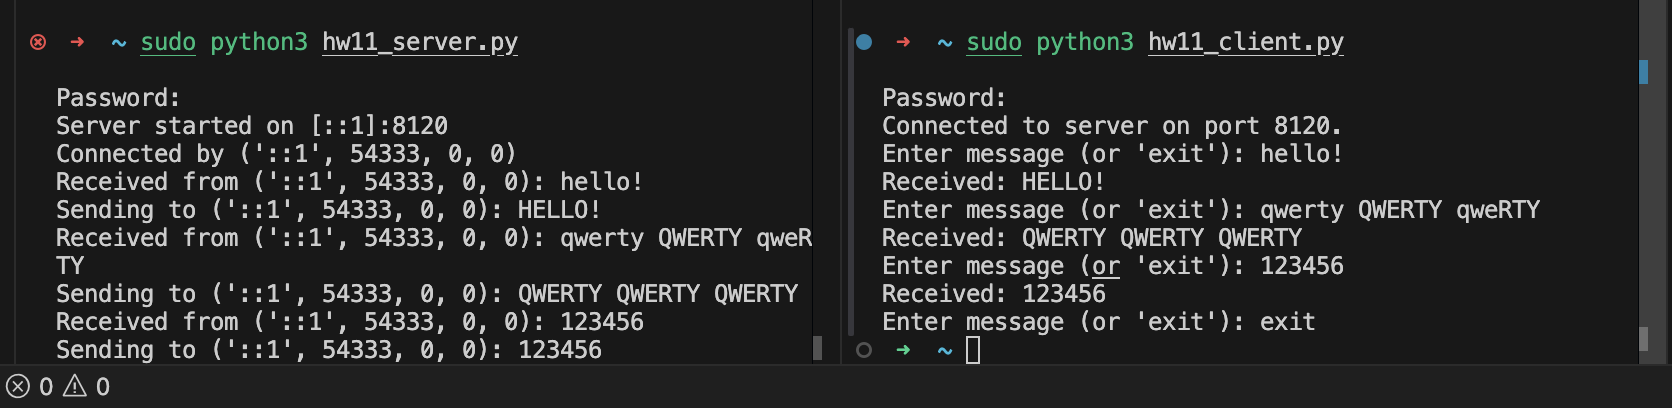
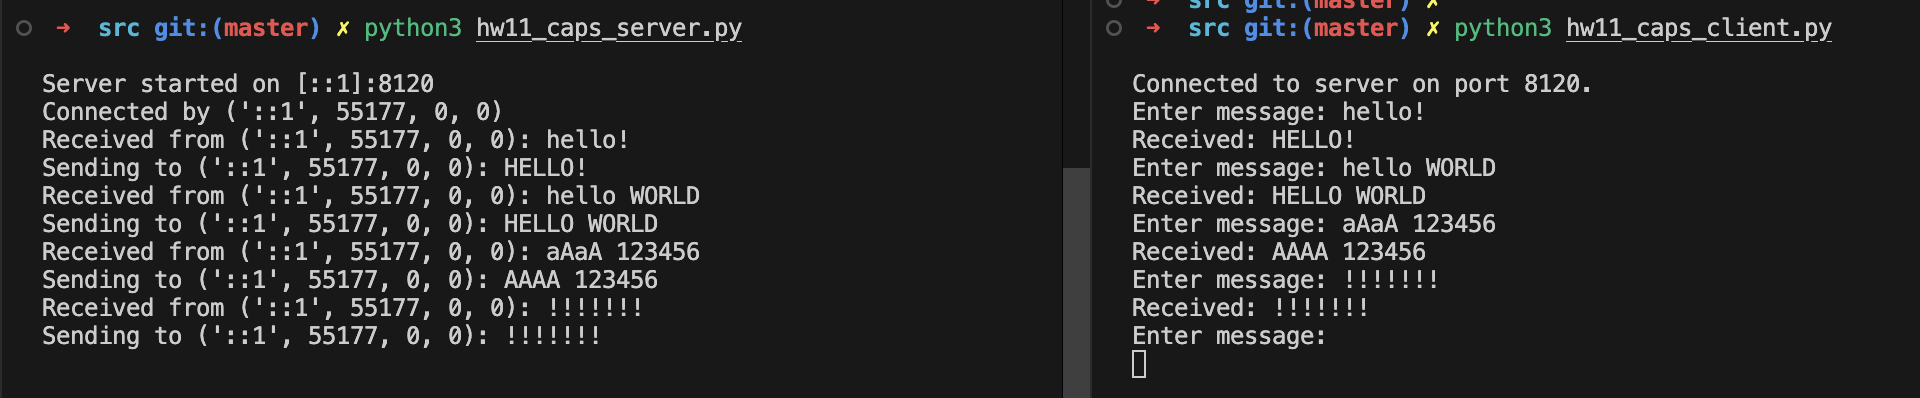
hw

Changed region(s): [[0.0, 0.0, 1.0, 1.0], [0.0, 0.0302, 0.4043, 0.1508], [0.0, 0.9045, 0.0622, 0.995]]

diff --git a/lab11/src/hw11_caps_client.py b/lab11/src/hw11_caps_client.py
@@ -12,9 +12,7 @@ def run_client(port):
             print(f"Connected to server on port {port}.")
 
             while True:
-                message = input("Enter message (or 'exit'): ")
-                if message.lower() == 'exit':
-                    break
+                message = input("Enter message: ")
                 client_sock.sendall(message.encode())
                 data = client_sock.recv(BUFFER_SIZE)
                 print(f"Received: {data.decode()}")
